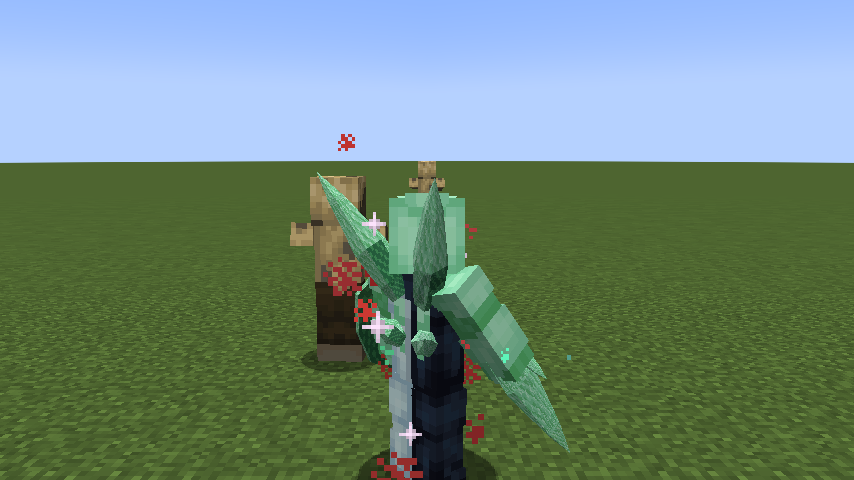
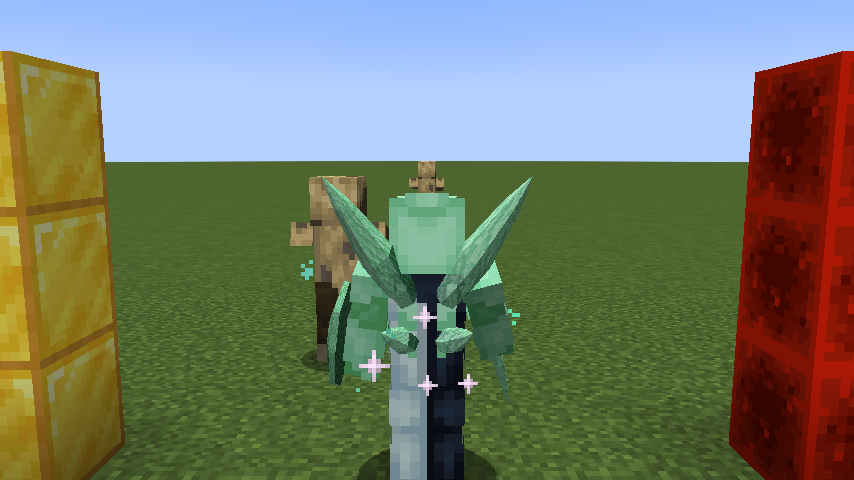
v0.17.2: Diamondhead's Crystal Slide, Spike Line and Crystal Eruption get new third and first person animations (user: "edit and update animations on all moves please")
The Slide has a hand-slap entry, a held side-on surfer's stance with a sway and a step-off; the Spike Line a lunge with the hand ripped along
the line; the Eruption a gather, a slam on to one knee and arms sweeping out with the rings. Harness proof, body squared to head and marker
blocks either side: the raised shield is on his left, so the earlier right-side shot was a harness artefact.

diff --git a/src/client/java/com/projecthero/mod/client/omnitrix/alien/DiamondheadClient.java b/src/client/java/com/projecthero/mod/client/omnitrix/alien/DiamondheadClient.java
@@ -62,12 +62,25 @@ public final class DiamondheadClient implements AlienClientKit {
 	private static final float[][] SPEAR = { QuirkKeyframes.rest(0), QuirkKeyframes.f(4, -2.95f, 0.3f, 0.3f, -1.35f, 0.25f, -0.2f, -0.2f, 0.65f, 0.25f, 0, 0, -0.35f, 0, 0, -0.2f),
 			QuirkKeyframes.f(5, -2.95f, 0.3f, 0.3f, -1.35f, 0.25f, -0.2f, -0.2f, 0.65f, 0.25f, 0, 0, -0.35f, 0, 0, -0.2f),
 			QuirkKeyframes.f(8, -1.05f, -0.25f, 0, 0.35f, 0, -0.1f, 0.45f, -0.5f, -0.35f, 0, 0, 0.45f, 0, 0, 0.25f), QuirkKeyframes.rest(16) };
-	// the Spike Line: both fists raised overhead, then driven down into the ground in a crouch (at 6, when the first spike bursts up)
-	private static final float[][] SHATTER = { QuirkKeyframes.restC(0), QuirkKeyframes.fc(3, -2.9f, 0, 0.2f, -2.9f, 0, -0.2f, -0.2f, 0, 0, 0, 0, 0, 0, 0, -0.3f, 0),
-			QuirkKeyframes.fc(6, -0.5f, 0, 0.1f, -0.5f, 0, -0.1f, 0.7f, 0, -0.6f, 0, 0.2f, -0.6f, 0, -0.2f, 0.4f, 0.8f),
-			QuirkKeyframes.fc(14, -0.4f, 0, 0.1f, -0.4f, 0, -0.1f, 0.6f, 0, -0.5f, 0, 0.2f, -0.5f, 0, -0.2f, 0.3f, 0.7f), QuirkKeyframes.restC(20) };
-	private static final float[][] SLIDE = { QuirkKeyframes.rest(0), QuirkKeyframes.f(3, -0.2f, 0, 1.3f, -0.2f, 0, -1.3f, 0.2f, 0.9f, -0.4f, 0.3f, 0.2f, 0.3f, 0.3f, -0.2f, 0),
-			QuirkKeyframes.f(18, -0.2f, 0, 1.2f, -0.2f, 0, -1.2f, 0.2f, 0.9f, -0.4f, 0.3f, 0.2f, 0.3f, 0.3f, -0.2f, 0), QuirkKeyframes.rest(22) };
+	// the Spike Line: a lunge with the right hand wound back low, the fingers driven into the ground ahead at 6 as the first spike bursts up, then
+	// ripped forward and up along the line it is tearing open, the left arm thrown back to balance him, the head kept up on the way ahead
+	private static final float[][] SHATTER = { QuirkKeyframes.restC(0),
+			QuirkKeyframes.fc(3, -0.1f, 0.3f, 0.5f, -1.0f, 0, -0.3f, -0.05f, 0.5f, 0.35f, 0, 0.1f, -0.3f, 0, -0.1f, 0, 0.35f),
+			QuirkKeyframes.fc(6, -0.75f, 0, 0.05f, 0.35f, 0, -0.35f, 0.75f, -0.25f, 0.55f, 0, 0.12f, -0.85f, 0, -0.1f, -0.55f, 1f),
+			QuirkKeyframes.fc(10, -1.35f, -0.05f, 0.05f, 0.5f, 0, -0.4f, 0.5f, -0.35f, 0.5f, 0, 0.12f, -0.8f, 0, -0.1f, -0.35f, 0.8f),
+			QuirkKeyframes.fc(15, -1.3f, -0.05f, 0.05f, 0.45f, 0, -0.4f, 0.45f, -0.3f, 0.45f, 0, 0.12f, -0.7f, 0, -0.1f, -0.3f, 0.7f), QuirkKeyframes.restC(21) };
+	// the Crystal Slide: he drops and slaps a hand to the crystal as it starts under him, then rises into a side-on surfer's stance -- knees bent,
+	// left foot and left arm leading, right arm out behind (pose adds a sway), and straightens up out of it when he steps off
+	private static final float[] SLIDE_HOLD = QuirkKeyframes.fc(0, 0.45f, 0.15f, 0.75f, -1.3f, 0.45f, -0.25f, 0.22f, 0.7f, 0.45f, 0.35f, 0.15f, -0.55f, 0.35f, -0.1f, -0.2f, 0.6f);
+	private static final float[][] SLIDE_IN = { QuirkKeyframes.restC(0),
+			QuirkKeyframes.fc(3, -0.5f, 0, 0.3f, -0.2f, 0, -0.5f, 0.75f, 0.2f, 0.3f, 0, 0.12f, -0.4f, 0, -0.1f, -0.5f, 1f), slideHoldAt(9) };
+
+	private static float[] slideHoldAt(float t) {
+		float[] f = SLIDE_HOLD.clone();
+		f[0] = t;
+		return f;
+	}
+
 	// the Crystal Vault: riding the pillar up, one fist punched at the sky, the other arm down at his side, knees bent under him
 	private static final float[][] VAULT = { QuirkKeyframes.rest(0),
 			QuirkKeyframes.f(3, -3.05f, 0, 0.12f, 0.12f, 0, -0.3f, -0.12f, 0, 0.35f, 0, 0.1f, -0.45f, 0, -0.1f, -0.45f),
@@ -124,12 +137,14 @@ public final class DiamondheadClient implements AlienClientKit {
 	private static final float[][] SLASH = { QuirkKeyframes.rest(0), QuirkKeyframes.f(2, -1.9f, 0.9f, 0.4f, 0.2f, 0, 0, 0, 0.5f, 0, 0, 0, 0, 0, 0, 0),
 			QuirkKeyframes.f(5, -1.2f, -1.0f, -0.2f, 0.3f, 0, 0, 0.2f, -0.5f, 0.2f, 0, 0, -0.2f, 0, 0, 0), QuirkKeyframes.rest(10) };
 	private static final float[][] PLACE = { QuirkKeyframes.rest(0), QuirkKeyframes.f(3, -1.1f, 0, 0, 0, 0, 0, 0.15f, 0, 0, 0, 0, 0, 0, 0, 0.3f), QuirkKeyframes.rest(8) };
-	// v0.17.2 (user: "Make Z an aoe spike ability"): the Crystal Eruption -- both fists hauled up overhead, then a dropping
-	// slam into the ground on one knee-deep crouch, held while the rings burst out
+	// v0.17.2 (user: "Make Z an aoe spike ability"): the Crystal Eruption -- arms crossed on the chest as he gathers, flung overhead, a dropping
+	// two-fisted slam on to one knee (rings start at 6), then both arms sweep out along the ground with the rings as they spread
 	private static final float[][] ERUPT = { QuirkKeyframes.restC(0),
-			QuirkKeyframes.fc(4, -3.0f, 0.15f, 0.35f, -3.0f, -0.15f, -0.35f, -0.25f, 0, 0.1f, 0, 0, 0.1f, 0, 0, -0.35f, 0.1f),
-			QuirkKeyframes.fc(7, -0.35f, 0, 0.15f, -0.35f, 0, -0.15f, 0.75f, 0, -0.7f, 0, 0.15f, 0.2f, 0, -0.1f, 0.45f, 1.0f),
-			QuirkKeyframes.fc(17, -0.3f, 0, 0.15f, -0.3f, 0, -0.15f, 0.7f, 0, -0.65f, 0, 0.15f, 0.2f, 0, -0.1f, 0.4f, 0.95f), QuirkKeyframes.restC(24) };
+			QuirkKeyframes.fc(3, -1.5f, -0.8f, 0, -1.5f, 0.8f, 0, 0.25f, 0, 0.1f, 0, 0.1f, 0.1f, 0, -0.1f, 0.2f, 0.45f),
+			QuirkKeyframes.fc(5, -3.0f, 0, 0.4f, -3.0f, 0, -0.4f, -0.25f, 0, -0.1f, 0, 0.12f, -0.1f, 0, -0.12f, -0.3f, 0f),
+			QuirkKeyframes.fc(7, -0.5f, 0, 0.2f, -0.5f, 0, -0.2f, 0.85f, 0, -0.75f, 0, 0.15f, 0.35f, 0, -0.1f, -0.6f, 1f),
+			QuirkKeyframes.fc(12, -0.35f, 0, 1.0f, -0.35f, 0, -1.0f, 0.6f, 0, -0.7f, 0, 0.15f, 0.3f, 0, -0.1f, -0.4f, 0.9f),
+			QuirkKeyframes.fc(18, -0.3f, 0, 1.15f, -0.3f, 0, -1.15f, 0.5f, 0, -0.6f, 0, 0.15f, 0.25f, 0, -0.1f, -0.3f, 0.8f), QuirkKeyframes.restC(25) };
 	// ---- v0.17.2 revamp
 	// Combat Mode on: the right forearm held across the chest as the blade grows out of it, the left arm up as the shield forms on it, then
 	// the blade flung out to his side and the shield dropped to guard
@@ -176,8 +191,9 @@ public final class DiamondheadClient implements AlienClientKit {
 	private static final FirstPersonClip FP_SHIELD_UP = FirstPersonClip.of(FirstPersonClip.f(0, 0, 0, 0, 0, 0, 0), FirstPersonClip.f(4, -40, 5, 0, 0.08f, 0.16f, 0.12f));
 	private static final FirstPersonClip FP_SPEAR = FirstPersonClip.of(FirstPersonClip.f(0, 0, 0, 0, 0, 0, 0), FirstPersonClip.f(4, -80, 0, 15, 0.05f, 0.5f, 0.25f),
 			FirstPersonClip.f(5, -80, 0, 15, 0.05f, 0.5f, 0.25f), FirstPersonClip.f(8, -10, 25, 0, 0.15f, 0.05f, -0.4f), FirstPersonClip.f(16, 0, 0, 0, 0, 0, 0));
-	private static final FirstPersonClip FP_SLAM = FirstPersonClip.of(FirstPersonClip.f(0, 0, 0, 0, 0, 0, 0), FirstPersonClip.f(3, -80, 5, 0, 0.05f, 0.5f, 0.2f),
-			FirstPersonClip.f(6, 35, 10, 0, 0.05f, -0.35f, -0.1f), FirstPersonClip.f(20, 0, 0, 0, 0, 0, 0)).both();
+	private static final FirstPersonClip FP_LINE = FirstPersonClip.of(FirstPersonClip.f(0, 0, 0, 0, 0, 0, 0), FirstPersonClip.f(3, 20, -25, 0, -0.2f, -0.2f, 0.15f),
+			FirstPersonClip.f(6, 55, 10, 0, 0.1f, -0.5f, -0.35f), FirstPersonClip.f(10, -20, 12, 0, 0.12f, -0.1f, -0.6f), FirstPersonClip.f(15, -18, 12, 0, 0.12f, -0.12f, -0.55f),
+			FirstPersonClip.f(21, 0, 0, 0, 0, 0, 0));
 	private static final FirstPersonClip FP_HEAVE = FirstPersonClip.of(FirstPersonClip.f(0, 0, 0, 0, 0, 0, 0), FirstPersonClip.f(3, 25, 10, 0, 0, -0.25f, 0),
 			FirstPersonClip.f(9, -45, 25, 0, 0.2f, 0.25f, -0.3f), FirstPersonClip.f(14, -43, 25, 0, 0.2f, 0.22f, -0.3f), FirstPersonClip.f(19, 0, 0, 0, 0, 0, 0)).both();
 	private static final FirstPersonClip FP_MAUL = FirstPersonClip.of(FirstPersonClip.f(0, 0, 0, 0, 0, 0, 0), FirstPersonClip.f(5, -60, 0, 8, 0.02f, 0.35f, 0.15f),
@@ -190,15 +206,19 @@ public final class DiamondheadClient implements AlienClientKit {
 			FirstPersonClip.f(21, 0, 0, 0, 0, 0, 0));
 	private static final FirstPersonClip FP_RAISE = FirstPersonClip.of(FirstPersonClip.f(0, 0, 0, 0, 0, 0, 0), FirstPersonClip.f(3, -80, -10, 12, -0.05f, 0.5f, 0.12f),
 			FirstPersonClip.f(14, -78, -10, 12, -0.05f, 0.48f, 0.12f), FirstPersonClip.f(20, 0, 0, 0, 0, 0, 0));
-	private static final FirstPersonClip FP_SURF = FirstPersonClip.of(FirstPersonClip.f(0, 0, 0, 0, 0, 0, 0), FirstPersonClip.f(3, 10, -45, 40, -0.35f, 0.05f, 0.1f),
-			FirstPersonClip.f(18, 10, -45, 40, -0.35f, 0.05f, 0.1f), FirstPersonClip.f(22, 0, 0, 0, 0, 0, 0)).both();
+	// the Crystal Slide: a hand slapped down as it starts, then both arms held low and wide for balance for the whole ride (the last frame is
+	// out of reach of any ride), and back in as he steps off
+	private static final FirstPersonClip FP_SURF = FirstPersonClip.of(FirstPersonClip.f(0, 0, 0, 0, 0, 0, 0), FirstPersonClip.f(3, 30, 0, 0, 0, -0.3f, 0),
+			FirstPersonClip.f(9, -12, -30, 28, -0.22f, 0.02f, 0.05f), FirstPersonClip.f(1000000, -12, -30, 28, -0.22f, 0.02f, 0.05f)).both();
+	private static final FirstPersonClip FP_SURF_END = FirstPersonClip.of(FirstPersonClip.f(0, -12, -30, 28, -0.22f, 0.02f, 0.05f), FirstPersonClip.f(7, 0, 0, 0, 0, 0, 0)).both();
 	private static final FirstPersonClip FP_SLASH = FirstPersonClip.of(FirstPersonClip.f(0, 0, 0, 0, 0, 0, 0), FirstPersonClip.f(2, -40, -40, -20, -0.2f, 0.25f, 0),
 			FirstPersonClip.f(5, -10, 50, 20, 0.35f, 0.0f, -0.25f), FirstPersonClip.f(10, 0, 0, 0, 0, 0, 0));
 	private static final FirstPersonClip FP_PLACE = FirstPersonClip.of(FirstPersonClip.f(0, 0, 0, 0, 0, 0, 0), FirstPersonClip.f(3, -15, 15, 0, 0.1f, 0.0f, -0.2f),
 			FirstPersonClip.f(8, 0, 0, 0, 0, 0, 0));
 	/** v0.17.2: the Crystal Eruption's slam -- both fists up out of view, then driven down hard past the bottom of the screen. */
-	private static final FirstPersonClip FP_ERUPT = FirstPersonClip.of(FirstPersonClip.f(0, 0, 0, 0, 0, 0, 0), FirstPersonClip.f(4, -95, 5, 0, 0.05f, 0.6f, 0.25f),
-			FirstPersonClip.f(7, 50, 10, 0, 0.05f, -0.5f, -0.2f), FirstPersonClip.f(17, 45, 10, 0, 0.05f, -0.45f, -0.18f), FirstPersonClip.f(24, 0, 0, 0, 0, 0, 0)).both();
+	private static final FirstPersonClip FP_ERUPT = FirstPersonClip.of(FirstPersonClip.f(0, 0, 0, 0, 0, 0, 0), FirstPersonClip.f(3, -40, 35, 0, 0.2f, 0.2f, 0),
+			FirstPersonClip.f(5, -100, 5, 0, 0.05f, 0.65f, 0.25f), FirstPersonClip.f(7, 55, 10, 0, 0.05f, -0.5f, -0.2f), FirstPersonClip.f(12, 45, -30, 25, -0.2f, -0.42f, -0.18f),
+			FirstPersonClip.f(18, 42, -34, 28, -0.24f, -0.4f, -0.16f), FirstPersonClip.f(25, 0, 0, 0, 0, 0, 0)).both();
 	// ---- v0.17.2 revamp
 	private static final FirstPersonClip FP_COMBAT_ON = FirstPersonClip.of(FirstPersonClip.f(0, 0, 0, 0, 0, 0, 0), FirstPersonClip.f(4, -50, 35, 0, 0.18f, 0.25f, 0),
 			FirstPersonClip.f(9, -20, -20, 0, -0.1f, 0.05f, 0), FirstPersonClip.f(15, 0, 0, 0, 0, 0, 0)).both();
@@ -935,7 +955,6 @@ public final class DiamondheadClient implements AlienClientKit {
 			case DiamondheadKit.ANIM_COMBAT_ON -> COMBAT_ON;
 			case DiamondheadKit.ANIM_COMBAT_OFF -> COMBAT_OFF;
 			case DiamondheadKit.ANIM_SHATTER -> SHATTER;
-			case DiamondheadKit.ANIM_SLIDE -> SLIDE;
 			case DiamondheadKit.ANIM_VAULT -> VAULT;
 			case DiamondheadKit.ANIM_WALL -> WALL;
 			case DiamondheadKit.ANIM_BARRAGE -> BARRAGE;
@@ -953,9 +972,8 @@ public final class DiamondheadClient implements AlienClientKit {
 			default -> null;
 		};
 		boolean played = clip != null && QuirkKeyframes.play(m, clip, ticks, 1f);
-		if (!played && (flags & DiamondheadKit.F_SLIDING) != 0) {
-			// v0.17.2: the surfer's crouch held for the whole ride
-			return QuirkKeyframes.play(m, SLIDE, 10f, 1f);
+		if (slidePose(m, animId, ticks, age, flags, played)) {
+			return true;
 		}
 		boolean combat = (flags & DiamondheadKit.F_COMBAT) != 0;
 		if (!played && combat) {
@@ -975,6 +993,26 @@ public final class DiamondheadClient implements AlienClientKit {
 			played = true;
 		}
 		return played || combat;
+	}
+
+	/** The Crystal Slide: in, the stance held for the whole ride with a slow sway, and out again. */
+	private static boolean slidePose(HumanoidModel<?> m, int animId, float ticks, float age, int flags, boolean played) {
+		if (animId == DiamondheadKit.ANIM_SLIDE_END && ticks < 7f) {
+			float t = ticks / 7f;
+			QuirkKeyframes.apply(m, SLIDE_HOLD, 1f - t * t * (3f - 2f * t));
+			return true;
+		}
+		if (played || (flags & DiamondheadKit.F_SLIDING) == 0) {
+			return false;
+		}
+		boolean in = animId == DiamondheadKit.ANIM_SLIDE && ticks < 9f;
+		float w = animId == DiamondheadKit.ANIM_SLIDE ? Mth.clamp(ticks / 2f, 0f, 1f) : 1f;
+		QuirkKeyframes.apply(m, in ? QuirkKeyframes.sample(SLIDE_IN, ticks) : SLIDE_HOLD, w);
+		float sway = Mth.sin(age * 0.22f);
+		m.body.yRot += sway * 0.08f * w;
+		m.rightArm.zRot += sway * 0.12f * w;
+		m.leftArm.zRot += sway * 0.1f * w;
+		return true;
 	}
 
 	/**
@@ -1018,10 +1056,11 @@ public final class DiamondheadClient implements AlienClientKit {
 			case DiamondheadKit.ANIM_SPEAR -> FP_SPEAR;
 			case DiamondheadKit.ANIM_COMBAT_ON -> FP_COMBAT_ON;
 			case DiamondheadKit.ANIM_COMBAT_OFF -> FP_COMBAT_OFF;
-			case DiamondheadKit.ANIM_SHATTER -> FP_SLAM;
+			case DiamondheadKit.ANIM_SHATTER -> FP_LINE;
 			case DiamondheadKit.ANIM_WALL -> FP_HEAVE;
 			case DiamondheadKit.ANIM_VAULT -> FP_RAISE;
 			case DiamondheadKit.ANIM_SLIDE -> FP_SURF;
+			case DiamondheadKit.ANIM_SLIDE_END -> FP_SURF_END;
 			case DiamondheadKit.ANIM_SLASH -> FP_SLASH;
 			case DiamondheadKit.ANIM_PLACE -> FP_PLACE;
 			case DiamondheadKit.ANIM_MAUL -> FP_MAUL;

diff --git a/src/main/java/com/projecthero/mod/omnitrix/alien/diamondhead/DiamondheadKit.java b/src/main/java/com/projecthero/mod/omnitrix/alien/diamondhead/DiamondheadKit.java
@@ -104,6 +104,8 @@ public final class DiamondheadKit extends AlienKit {
 	/** The Shatter Line (the old Spike Line's pose). */
 	public static final int ANIM_SHATTER = 4;
 	public static final int ANIM_SLIDE = 5;
+	/** He steps off the Crystal Slide: up out of the stance. */
+	public static final int ANIM_SLIDE_END = 27;
 	public static final int ANIM_VAULT = 6;
 	public static final int ANIM_WALL = 7;
 	public static final int ANIM_BARRAGE = 9;
@@ -1414,6 +1416,7 @@ public final class DiamondheadKit extends AlienKit {
 		if (flag(p, F_SLIDING)) {
 			setFlag(p, F_SLIDING, false);
 			setTimer(p, "slide_grace", p.level().getGameTime() + 60);
+			anim(p, ANIM_SLIDE_END);
 		}
 	}
 

diff --git a/docs/OMNITRIX_REVAMP_DIAMONDHEAD.md b/docs/OMNITRIX_REVAMP_DIAMONDHEAD.md
@@ -29,4 +29,7 @@ Combat Mode: R Blade Stab (22, 4 s), Shift+R Crystal Cyclone (24), held right-cl
 - **Crystal Maul** (C, combat): in the show his hands reshape into blades and hammers. The hammer is drawn on the right arm, hiding the blade while it is out.
 - **Prism Spire** (Shift+C, utility): the show's refraction, planted. The crystal is a held `AlienProjectileEntity` (kind `diamondhead_spire`) like the Titan Shards, so it is real faceted geometry and every client sees it. Not a beam: the user removed the Prism Beam. No self-heal or armour either: the user removed those too. It ends when he turns back.
 - **Timing**: the Spear, Stab, Maul, Pillar, Spike Line and Eruption now land when the arm gets there, not on the key press (`tickStrikes`, `SLAM_DELAY`).
+- **Crystal Slide** pose: a hand slapped to the crystal, then a side-on surfer's stance held with a slow sway (`slidePose`), and `ANIM_SLIDE_END` straightens him out when he steps off. First person holds both arms low and wide for the whole ride.
+- **Spike Line** pose: a lunge, the right hand driven into the ground at the first spike and ripped forward along the line. **Crystal Eruption** pose: arms crossed, flung overhead, a two-fisted slam on to one knee, then both arms sweeping out with the rings.
+- **Raised shield side**: checked with his body squared to his head and marker blocks on each side. It sits on his left, front and back. An earlier shot showing it on his right came from the harness teleport leaving his body turned against his head.
 - **Crystal Cyclone** is a real full-body turn (`DiamondheadSpinMixin`), not a torso twist.
